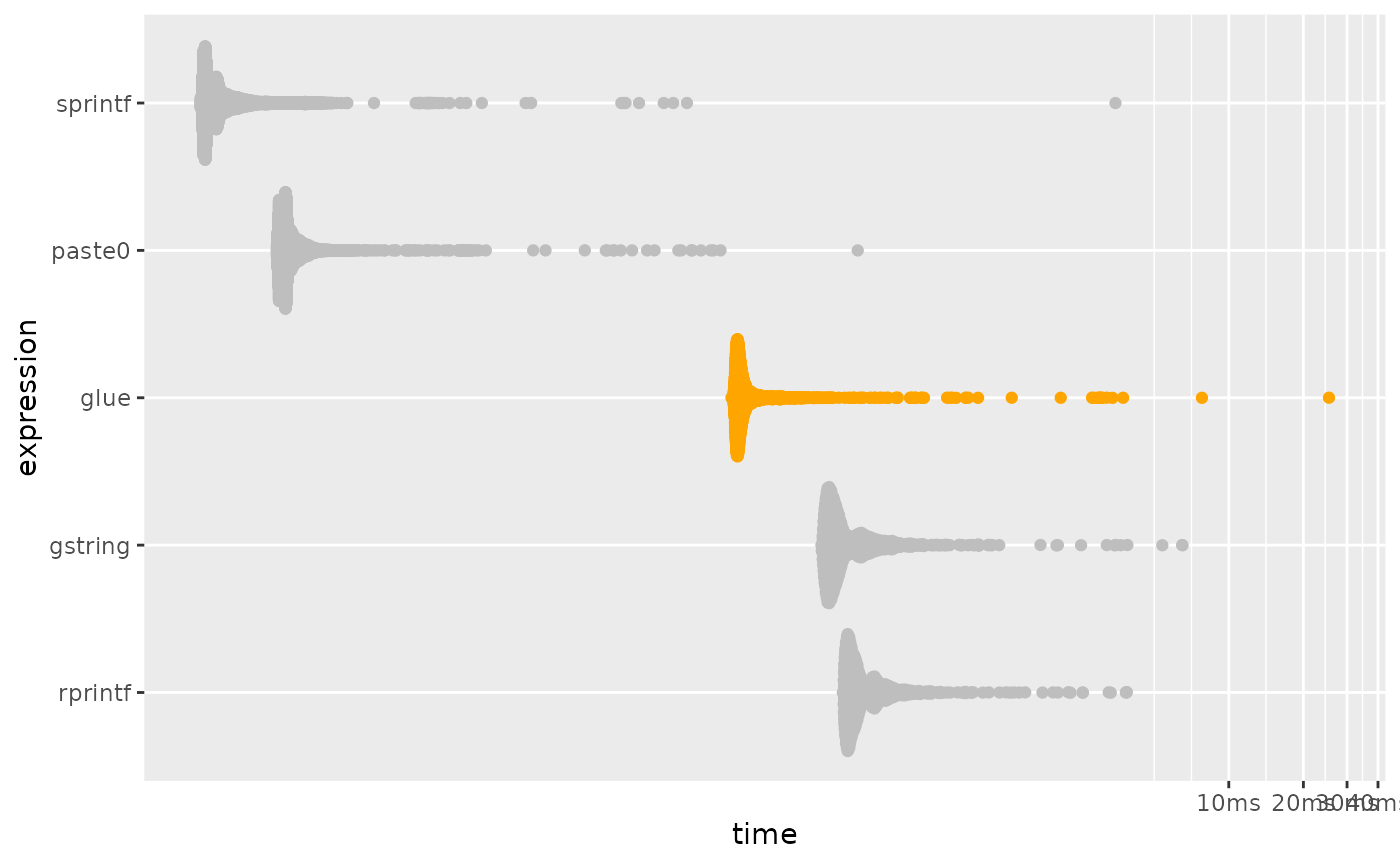
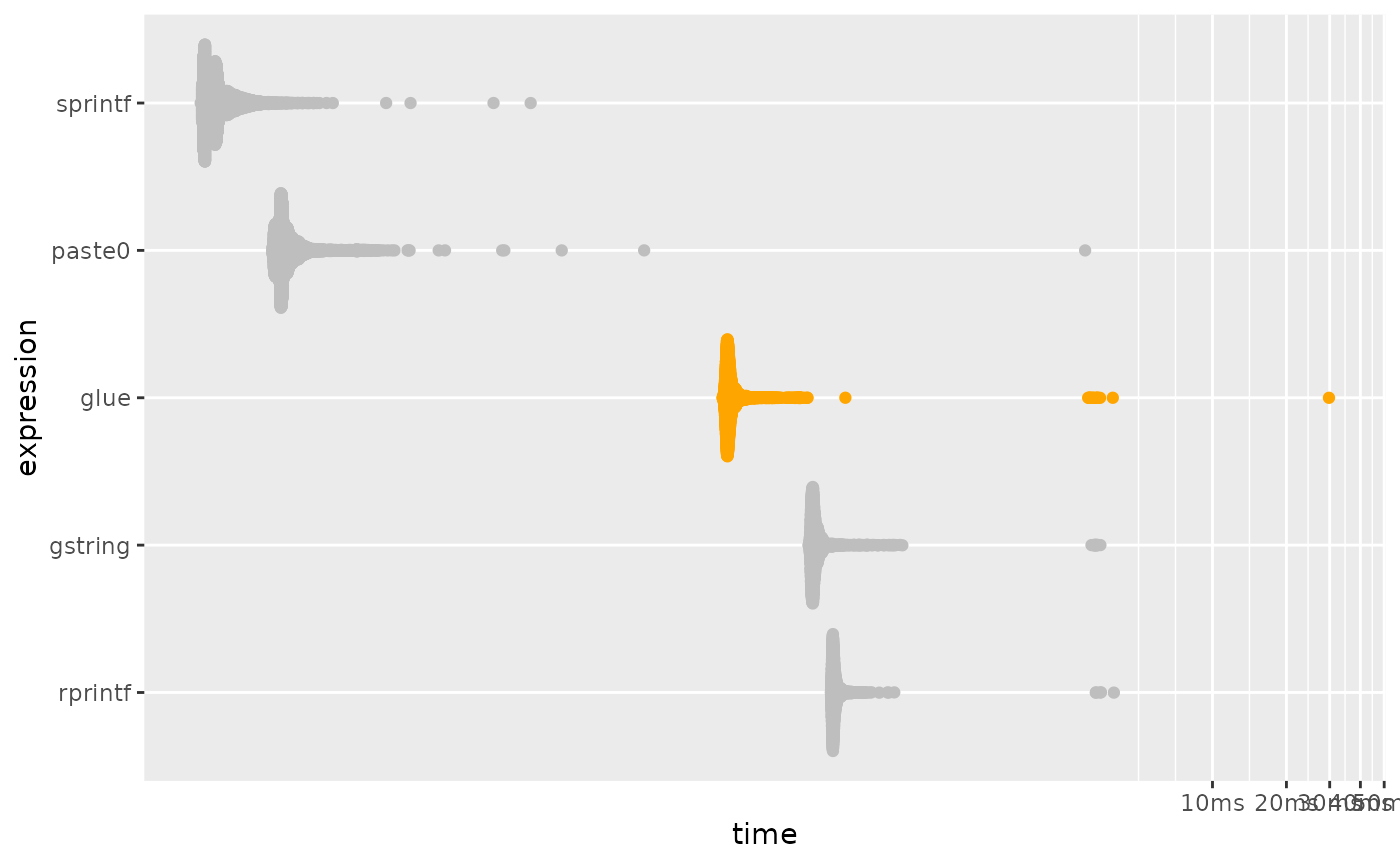
Deploying to gh-pages from @ tidyverse/glue@7aa50e65c5806398b221e597f3c1ae3418770e4f 🚀

diff --git a/dev/articles/speed.html b/dev/articles/speed.html
@@ -42,7 +42,7 @@
     
     <a class="navbar-brand me-2" href="../index.html">glue</a>
 
-    <small class="nav-text text-danger me-auto" data-bs-toggle="tooltip" data-bs-placement="bottom" title="In-development version">1.6.2.9000</small>
+    <small class="nav-text text-danger me-auto" data-bs-toggle="tooltip" data-bs-placement="bottom" title="In-development version">1.7.0.9000</small>
 
     
     <button class="navbar-toggler" type="button" data-bs-toggle="collapse" data-bs-target="#navbar" aria-controls="navbar" aria-expanded="false" aria-label="Toggle navigation">
@@ -166,11 +166,11 @@ this benchmark, but is now formally marked as “superseded”, in favor of
 <span><span class="co">#&gt; <span style="color: #949494;"># A tibble: 5 × 6</span></span></span>
 <span><span class="co">#&gt;   expression      min   median `itr/sec` mem_alloc `gc/sec`</span></span>
 <span><span class="co">#&gt;   <span style="color: #949494; font-style: italic;">&lt;bch:expr&gt;</span> <span style="color: #949494; font-style: italic;">&lt;bch:tm&gt;</span> <span style="color: #949494; font-style: italic;">&lt;bch:tm&gt;</span>     <span style="color: #949494; font-style: italic;">&lt;dbl&gt;</span> <span style="color: #949494; font-style: italic;">&lt;bch:byt&gt;</span>    <span style="color: #949494; font-style: italic;">&lt;dbl&gt;</span></span></span>
-<span><span class="co">#&gt; <span style="color: #BCBCBC;">1</span> sprintf    711.07ns 811.07ns  1<span style="text-decoration: underline;">067</span>910.        0B   107.  </span></span>
-<span><span class="co">#&gt; <span style="color: #BCBCBC;">2</span> paste0       1.44µs   1.57µs   <span style="text-decoration: underline;">560</span>352.        0B     0   </span></span>
-<span><span class="co">#&gt; <span style="color: #BCBCBC;">3</span> glue        98.51µs 106.49µs     <span style="text-decoration: underline;">8</span>494.  139.66KB    30.0 </span></span>
-<span><span class="co">#&gt; <span style="color: #BCBCBC;">4</span> gstring    227.21µs  260.5µs     <span style="text-decoration: underline;">3</span>293.    2.45MB    15.0 </span></span>
-<span><span class="co">#&gt; <span style="color: #BCBCBC;">5</span> rprintf    277.12µs 310.56µs     <span style="text-decoration: underline;">2</span>776.   78.14KB     8.24</span></span>
+<span><span class="co">#&gt; <span style="color: #BCBCBC;">1</span> sprintf    761.12ns 872.07ns  1<span style="text-decoration: underline;">086</span>458.        0B      0  </span></span>
+<span><span class="co">#&gt; <span style="color: #BCBCBC;">2</span> paste0       1.49µs   1.65µs   <span style="text-decoration: underline;">566</span>993.        0B     56.7</span></span>
+<span><span class="co">#&gt; <span style="color: #BCBCBC;">3</span> glue        101.3µs 107.23µs     <span style="text-decoration: underline;">9</span>050.  139.63KB     30.2</span></span>
+<span><span class="co">#&gt; <span style="color: #BCBCBC;">4</span> gstring    227.02µs  238.4µs     <span style="text-decoration: underline;">4</span>053.    2.45MB     19.2</span></span>
+<span><span class="co">#&gt; <span style="color: #BCBCBC;">5</span> rprintf     279.6µs 287.26µs     <span style="text-decoration: underline;">3</span>422.   78.14KB     10.4</span></span>
 <span></span>
 <span><span class="co"># plotting function defined in a hidden chunk</span></span>
 <span><span class="fu">plot_comparison</span><span class="op">(</span><span class="va">simple</span><span class="op">)</span></span></code></pre></div>
@@ -213,11 +213,11 @@ performance is much closer to that of <code><a href="https://rdrr.io/r/base/past
 <span><span class="co">#&gt; <span style="color: #949494;"># A tibble: 5 × 6</span></span></span>
 <span><span class="co">#&gt;   expression      min   median `itr/sec` mem_alloc `gc/sec`</span></span>
 <span><span class="co">#&gt;   <span style="color: #949494; font-style: italic;">&lt;bch:expr&gt;</span> <span style="color: #949494; font-style: italic;">&lt;bch:tm&gt;</span> <span style="color: #949494; font-style: italic;">&lt;bch:tm&gt;</span>     <span style="color: #949494; font-style: italic;">&lt;dbl&gt;</span> <span style="color: #949494; font-style: italic;">&lt;bch:byt&gt;</span>    <span style="color: #949494; font-style: italic;">&lt;dbl&gt;</span></span></span>
-<span><span class="co">#&gt; <span style="color: #BCBCBC;">1</span> paste0       8.34ms   8.37ms     119.    781.3KB     4.17</span></span>
-<span><span class="co">#&gt; <span style="color: #BCBCBC;">2</span> sprintf       9.6ms   9.87ms     101.    781.3KB     4.14</span></span>
-<span><span class="co">#&gt; <span style="color: #BCBCBC;">3</span> gstring      11.2ms  11.34ms      85.4    1.53MB     4.17</span></span>
-<span><span class="co">#&gt; <span style="color: #BCBCBC;">4</span> glue        12.81ms  13.32ms      71.1    2.29MB     6.46</span></span>
-<span><span class="co">#&gt; <span style="color: #BCBCBC;">5</span> rprintf     27.55ms  27.78ms      36.0    3.05MB     4.50</span></span>
+<span><span class="co">#&gt; <span style="color: #BCBCBC;">1</span> paste0       8.33ms   8.35ms     119.    781.3KB     4.18</span></span>
+<span><span class="co">#&gt; <span style="color: #BCBCBC;">2</span> sprintf      9.57ms   9.86ms     101.    781.3KB     4.23</span></span>
+<span><span class="co">#&gt; <span style="color: #BCBCBC;">3</span> gstring     11.25ms  11.35ms      88.0    1.53MB     6.44</span></span>
+<span><span class="co">#&gt; <span style="color: #BCBCBC;">4</span> glue         12.7ms  13.28ms      73.6    2.29MB     6.49</span></span>
+<span><span class="co">#&gt; <span style="color: #BCBCBC;">5</span> rprintf     28.06ms  28.39ms      35.2    3.05MB     4.40</span></span>
 <span></span>
 <span><span class="co"># plotting function defined in a hidden chunk</span></span>
 <span><span class="fu">plot_comparison</span><span class="op">(</span><span class="va">vectorized</span><span class="op">)</span></span></code></pre></div>

diff --git a/dev/news/index.html b/dev/news/index.html
@@ -16,7 +16,7 @@
     
     <a class="navbar-brand me-2" href="../index.html">glue</a>
 
-    <small class="nav-text text-danger me-auto" data-bs-toggle="tooltip" data-bs-placement="bottom" title="In-development version">1.6.2.9000</small>
+    <small class="nav-text text-danger me-auto" data-bs-toggle="tooltip" data-bs-placement="bottom" title="In-development version">1.7.0.9000</small>
 
     
     <button class="navbar-toggler" type="button" data-bs-toggle="collapse" data-bs-target="#navbar" aria-controls="navbar" aria-expanded="false" aria-label="Toggle navigation">
@@ -66,6 +66,9 @@
 
     <div class="section level2">
 <h2 class="pkg-version" data-toc-text="development version" id="glue-development-version">glue (development version)<a class="anchor" aria-label="anchor" href="#glue-development-version"></a></h2>
+</div>
+    <div class="section level2">
+<h2 class="pkg-version" data-toc-text="1.7.0" id="glue-170">glue 1.7.0<a class="anchor" aria-label="anchor" href="#glue-170"></a></h2><p class="text-muted">CRAN release: 2024-01-09</p>
 <ul><li><p>If rlang is installed, glue will generate more informative errors if an interpolated expression either can’t be parsed or fails to evaluate (<a href="https://github.com/tidyverse/glue/issues/229" class="external-link">#229</a>).</p></li>
 <li><p><code>+</code> now works in more situations, and gives errors when one side isn’t a character vector. It no longer automatically applies glue interpolation to a non-glue input, if there is one. You’ll need to do that yourself (<a href="https://github.com/tidyverse/glue/issues/286" class="external-link">#286</a>).</p></li>
 <li><p><code>glue_collapse(character())</code> (and hence <code>glue_sql_collapse(character())</code>) now return <code>""</code>, so that they always return a single string (<a href="https://github.com/tidyverse/glue/issues/88" class="external-link">#88</a>).</p></li>

diff --git a/dev/authors.html b/dev/authors.html
@@ -16,7 +16,7 @@
     
     <a class="navbar-brand me-2" href="index.html">glue</a>
 
-    <small class="nav-text text-danger me-auto" data-bs-toggle="tooltip" data-bs-placement="bottom" title="In-development version">1.6.2.9000</small>
+    <small class="nav-text text-danger me-auto" data-bs-toggle="tooltip" data-bs-placement="bottom" title="In-development version">1.7.0.9000</small>
 
     
     <button class="navbar-toggler" type="button" data-bs-toggle="collapse" data-bs-target="#navbar" aria-controls="navbar" aria-expanded="false" aria-label="Toggle navigation">
@@ -84,15 +84,15 @@
       <h2 id="citation">Citation</h2>
       <p><small class="dont-index">Source: <a href="https://github.com/tidyverse/glue/blob/HEAD/DESCRIPTION" class="external-link"><code>DESCRIPTION</code></a></small></p>
 
-      <p>Hester J, Bryan J (2023).
+      <p>Hester J, Bryan J (2024).
 <em>glue: Interpreted String Literals</em>.
-R package version 1.6.2.9000, https://github.com/tidyverse/glue, <a href="https://glue.tidyverse.org/">https://glue.tidyverse.org/</a>. 
+R package version 1.7.0.9000, https://github.com/tidyverse/glue, <a href="https://glue.tidyverse.org/">https://glue.tidyverse.org/</a>. 
 </p>
       <pre>@Manual{,
   title = {glue: Interpreted String Literals},
   author = {Jim Hester and Jennifer Bryan},
-  year = {2023},
-  note = {R package version 1.6.2.9000, https://github.com/tidyverse/glue},
+  year = {2024},
+  note = {R package version 1.7.0.9000, https://github.com/tidyverse/glue},
   url = {https://glue.tidyverse.org/},
 }</pre>
     </div>

diff --git a/dev/reference/as_glue.html b/dev/reference/as_glue.html
@@ -22,7 +22,7 @@ the addition operator.'><meta property="og:image" content="https://glue.tidyvers
     
     <a class="navbar-brand me-2" href="../index.html">glue</a>
 
-    <small class="nav-text text-danger me-auto" data-bs-toggle="tooltip" data-bs-placement="bottom" title="In-development version">1.6.2.9000</small>
+    <small class="nav-text text-danger me-auto" data-bs-toggle="tooltip" data-bs-placement="bottom" title="In-development version">1.7.0.9000</small>
 
     
     <button class="navbar-toggler" type="button" data-bs-toggle="collapse" data-bs-target="#navbar" aria-controls="navbar" aria-expanded="false" aria-label="Toggle navigation">

diff --git a/dev/reference/glue-deprecated.html b/dev/reference/glue-deprecated.html
@@ -18,7 +18,7 @@ in a future version."><meta property="og:image" content="https://glue.tidyverse.
     
     <a class="navbar-brand me-2" href="../index.html">glue</a>
 
-    <small class="nav-text text-danger me-auto" data-bs-toggle="tooltip" data-bs-placement="bottom" title="In-development version">1.6.2.9000</small>
+    <small class="nav-text text-danger me-auto" data-bs-toggle="tooltip" data-bs-placement="bottom" title="In-development version">1.7.0.9000</small>
 
     
     <button class="navbar-toggler" type="button" data-bs-toggle="collapse" data-bs-target="#navbar" aria-controls="navbar" aria-expanded="false" aria-label="Toggle navigation">

diff --git a/dev/reference/glue.html b/dev/reference/glue.html
@@ -20,7 +20,7 @@ from the first and last lines are automatically trimmed."><meta property="og:ima
     
     <a class="navbar-brand me-2" href="../index.html">glue</a>
 
-    <small class="nav-text text-danger me-auto" data-bs-toggle="tooltip" data-bs-placement="bottom" title="In-development version">1.6.2.9000</small>
+    <small class="nav-text text-danger me-auto" data-bs-toggle="tooltip" data-bs-placement="bottom" title="In-development version">1.7.0.9000</small>
 
     
     <button class="navbar-toggler" type="button" data-bs-toggle="collapse" data-bs-target="#navbar" aria-controls="navbar" aria-expanded="false" aria-label="Toggle navigation">

diff --git a/dev/reference/glue_col.html b/dev/reference/glue_col.html
@@ -38,7 +38,7 @@ character, specify .literal = TRUE."><meta property="og:image" content="https://
     
     <a class="navbar-brand me-2" href="../index.html">glue</a>
 
-    <small class="nav-text text-danger me-auto" data-bs-toggle="tooltip" data-bs-placement="bottom" title="In-development version">1.6.2.9000</small>
+    <small class="nav-text text-danger me-auto" data-bs-toggle="tooltip" data-bs-placement="bottom" title="In-development version">1.7.0.9000</small>
 
     
     <button class="navbar-toggler" type="button" data-bs-toggle="collapse" data-bs-target="#navbar" aria-controls="navbar" aria-expanded="false" aria-label="Toggle navigation">

diff --git a/dev/reference/glue_collapse.html b/dev/reference/glue_collapse.html
@@ -20,7 +20,7 @@ object rather than a glue object."><meta property="og:image" content="https://gl
     
     <a class="navbar-brand me-2" href="../index.html">glue</a>
 
-    <small class="nav-text text-danger me-auto" data-bs-toggle="tooltip" data-bs-placement="bottom" title="In-development version">1.6.2.9000</small>
+    <small class="nav-text text-danger me-auto" data-bs-toggle="tooltip" data-bs-placement="bottom" title="In-development version">1.7.0.9000</small>
 
     
     <button class="navbar-toggler" type="button" data-bs-toggle="collapse" data-bs-target="#navbar" aria-controls="navbar" aria-expanded="false" aria-label="Toggle navigation">

diff --git a/dev/reference/glue_safe.html b/dev/reference/glue_safe.html
@@ -24,7 +24,7 @@ normal functions would allow an attacker to execute arbitrary code."><meta prope
     
     <a class="navbar-brand me-2" href="../index.html">glue</a>
 
-    <small class="nav-text text-danger me-auto" data-bs-toggle="tooltip" data-bs-placement="bottom" title="In-development version">1.6.2.9000</small>
+    <small class="nav-text text-danger me-auto" data-bs-toggle="tooltip" data-bs-placement="bottom" title="In-development version">1.7.0.9000</small>
 
     
     <button class="navbar-toggler" type="button" data-bs-toggle="collapse" data-bs-target="#navbar" aria-controls="navbar" aria-expanded="false" aria-label="Toggle navigation">

diff --git a/dev/reference/glue_sql.html b/dev/reference/glue_sql.html
@@ -48,7 +48,7 @@ for instance."><meta property="og:image" content="https://glue.tidyverse.org/log
     
     <a class="navbar-brand me-2" href="../index.html">glue</a>
 
-    <small class="nav-text text-danger me-auto" data-bs-toggle="tooltip" data-bs-placement="bottom" title="In-development version">1.6.2.9000</small>
+    <small class="nav-text text-danger me-auto" data-bs-toggle="tooltip" data-bs-placement="bottom" title="In-development version">1.7.0.9000</small>
 
     
     <button class="navbar-toggler" type="button" data-bs-toggle="collapse" data-bs-target="#navbar" aria-controls="navbar" aria-expanded="false" aria-label="Toggle navigation">

diff --git a/dev/reference/identity_transformer.html b/dev/reference/identity_transformer.html
@@ -18,7 +18,7 @@ transformer."><meta property="og:image" content="https://glue.tidyverse.org/logo
     
     <a class="navbar-brand me-2" href="../index.html">glue</a>
 
-    <small class="nav-text text-danger me-auto" data-bs-toggle="tooltip" data-bs-placement="bottom" title="In-development version">1.6.2.9000</small>
+    <small class="nav-text text-danger me-auto" data-bs-toggle="tooltip" data-bs-placement="bottom" title="In-development version">1.7.0.9000</small>
 
     
     <button class="navbar-toggler" type="button" data-bs-toggle="collapse" data-bs-target="#navbar" aria-controls="navbar" aria-expanded="false" aria-label="Toggle navigation">

diff --git a/dev/reference/quoting.html b/dev/reference/quoting.html
@@ -20,7 +20,7 @@ base::encodeString()."><meta property="og:image" content="https://glue.tidyverse
     
     <a class="navbar-brand me-2" href="../index.html">glue</a>
 
-    <small class="nav-text text-danger me-auto" data-bs-toggle="tooltip" data-bs-placement="bottom" title="In-development version">1.6.2.9000</small>
+    <small class="nav-text text-danger me-auto" data-bs-toggle="tooltip" data-bs-placement="bottom" title="In-development version">1.7.0.9000</small>
 
     
     <button class="navbar-toggler" type="button" data-bs-toggle="collapse" data-bs-target="#navbar" aria-controls="navbar" aria-expanded="false" aria-label="Toggle navigation">
